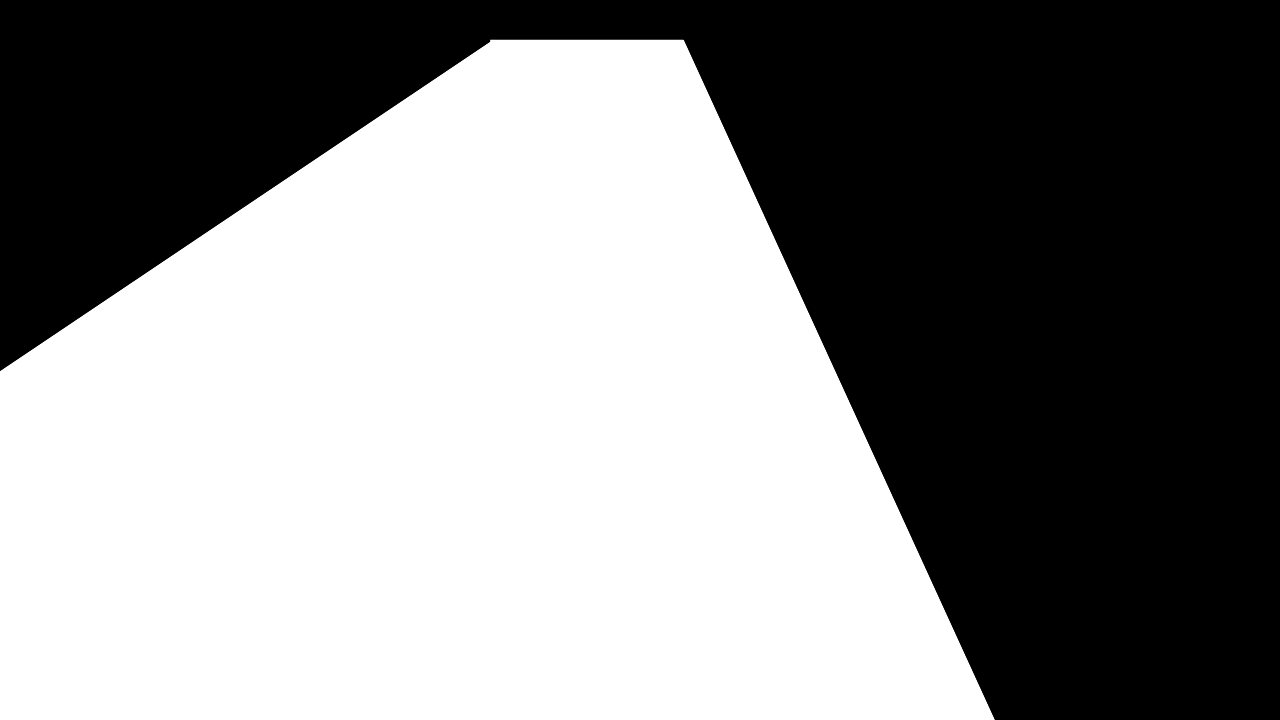
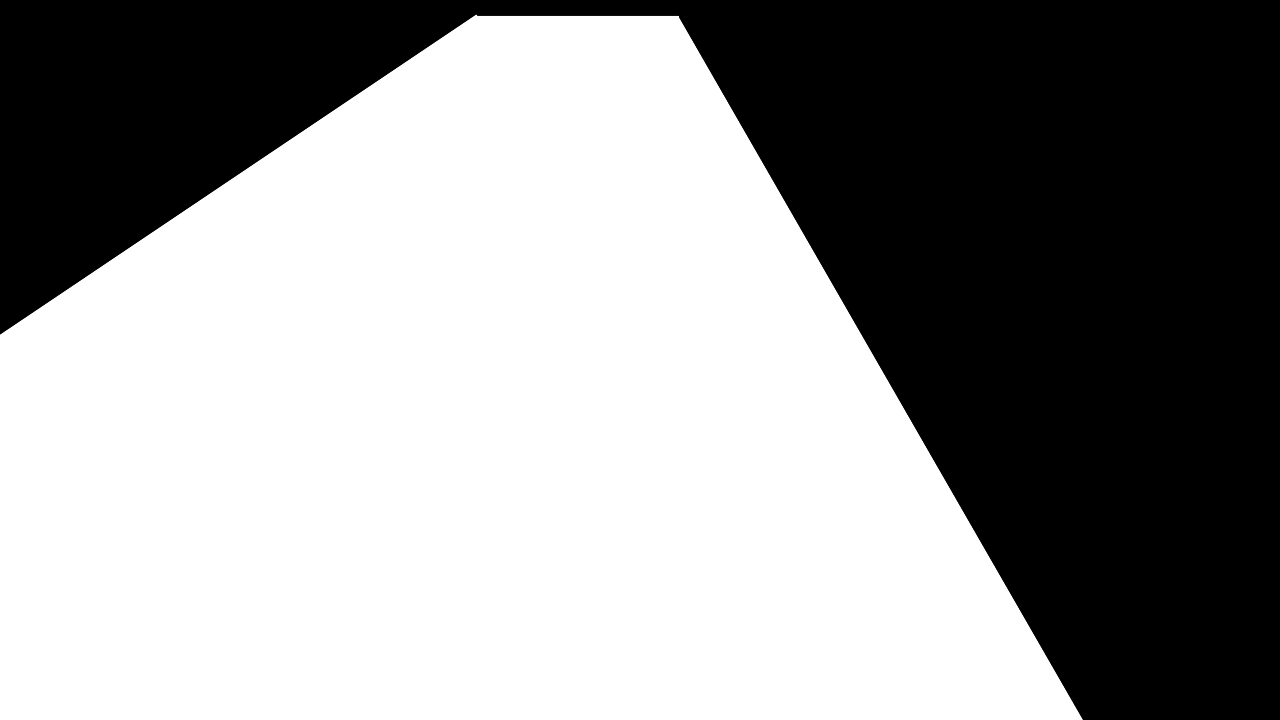
fixed sources of unit testing updated the ROI Masks

Changed region(s): [[0.0, 0.0, 0.8438, 1.0]]

diff --git a/Trial Files/Testing-Traffic-Light.py b/Trial Files/Testing-Traffic-Light.py
@@ -590,7 +590,7 @@ def generate_report(mydb, sql):
 #Traffic Light System
 def start_program():
     threading.Thread(target=get_fps).start()
-    threading.Thread(target=show_output, args=(video_sources, 0, False)).start()
+    threading.Thread(target=show_output, args=(video_sources, 0, True)).start()
     # threading.Thread(target=change_light_pattern, args=(0,)).start()
     threading.Thread(target=lane_timer, args=(1,)).start()
     # threading.Thread(target=check_minute).start()
@@ -604,21 +604,20 @@ def unit_vehicle_classification_module():
         # cv2.VideoCapture(0, cv2.CAP_DSHOW),
         # cv2.VideoCapture(0, cv2.CAP_DSHOW),
         # cv2.VideoCapture(0, cv2.CAP_DSHOW),
-        # cv2.VideoCapture('C:/xampp/htdocs/TRAFFIC-DENSITY-ALGORITHM/Trial Files/video-source/video-source-1.mp4'),
-        # cv2.VideoCapture('C:/xampp/htdocs/TRAFFIC-DENSITY-ALGORITHM/Trial Files/video-source/video-source-2.mp4'),
-        # cv2.VideoCapture('C:/xampp/htdocs/TRAFFIC-DENSITY-ALGORITHM/Trial Files/video-source/video-source-3.mp4'),
-        # cv2.VideoCapture('C:/xampp/htdocs/TRAFFIC-DENSITY-ALGORITHM/Trial Files/video-source/video-source-4.mp4')
-        cv2.VideoCapture('C:/Users/tapsi/OneDrive/Desktop/yolo-algorithm/Trial Files/video-source/video-source-1.mp4'),
-        cv2.VideoCapture('C:/Users/tapsi/OneDrive/Desktop/yolo-algorithm/Trial Files/video-source/video-source-2.mp4'),
-        cv2.VideoCapture('C:/Users/tapsi/OneDrive/Desktop/yolo-algorithm/Trial Files/video-source/video-source-3.mp4'),
-        cv2.VideoCapture('C:/Users/tapsi/OneDrive/Desktop/yolo-algorithm/Trial Files/video-source/video-source-4.mp4'),
-        # cv2.VideoCapture('C:/Users/tapsi/OneDrive/Desktop/yolo-algorithm/Trial Files/video-source/sample_2.mp4'),
-        # cv2.VideoCapture('C:/Users/tapsi/OneDrive/Desktop/yolo-algorithm/Trial Files/video-source/sample_2.mp4'),
-        # cv2.VideoCapture('C:/Users/tapsi/OneDrive/Desktop/yolo-algorithm/Trial Files/video-source/sample_2.mp4'),
-        # cv2.VideoCapture('C:/Users/tapsi/OneDrive/Desktop/yolo-algorithm/Trial Files/video-source/sample_2.mp4'),
+        cv2.VideoCapture('Trial Files/video-source/lane_1.mp4'),
+        cv2.VideoCapture('Trial Files/video-source/lane_2.mp4'),
+        cv2.VideoCapture('Trial Files/video-source/lane_3.mp4'),
+        cv2.VideoCapture('Trial Files/video-source/lane_4.mp4'),
     ]
 
-    show_output(unit_video, 1)
+    lane_mask = [
+        cv2.imread('Trial Files/Traffic Light System - ROI/LANE 1 MASK.png'),
+        cv2.imread('Trial Files/Traffic Light System - ROI/LANE 2 MASK.png'),
+        cv2.imread('Trial Files/Traffic Light System - ROI/LANE 3 MASK.png'),
+        cv2.imread('Trial Files/Traffic Light System - ROI/LANE 4 MASK.png'),
+    ]
+
+    show_output(unit_video, 1, True)
 
 def unit_traffic_density_calculation_module(class_1_count, class_2_count, class_3_count, class_4_count, expected_result):
     
